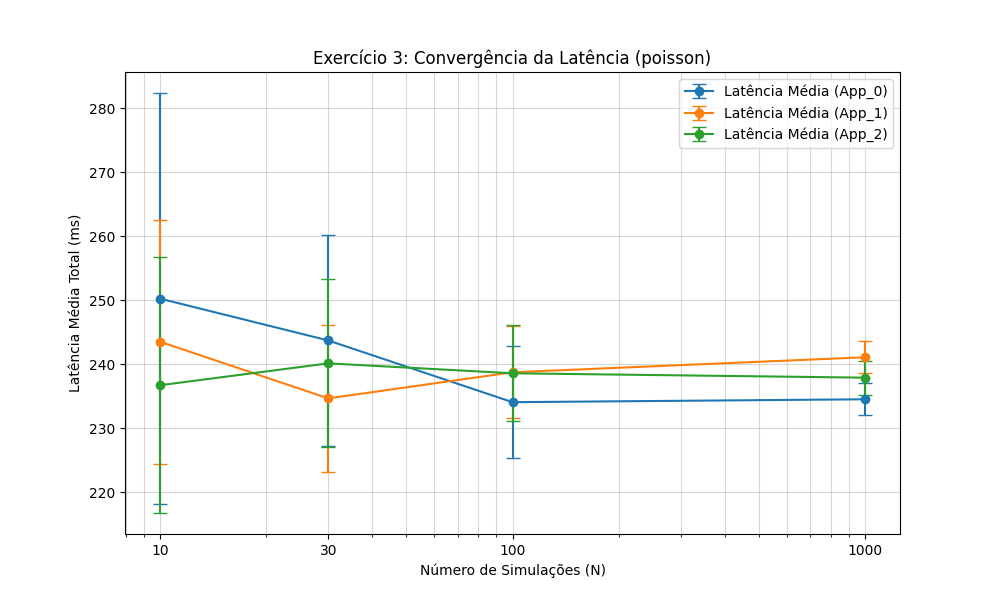
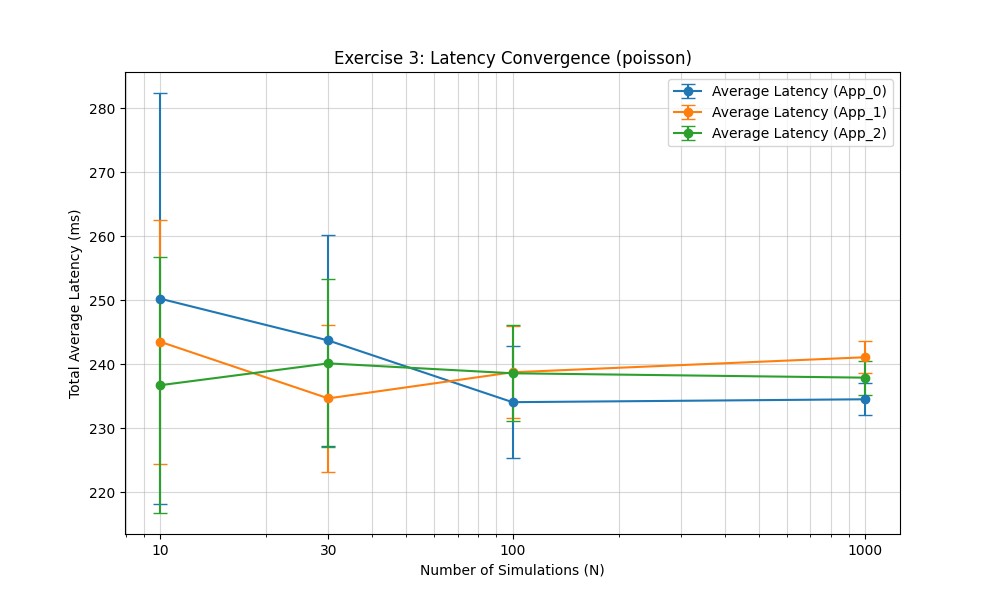
Changed plots and script for ex3

Changed region(s): [[0.31, 0.09, 0.899, 0.27], [0.062, 0.36, 0.093, 0.66], [0.434, 0.93, 0.62, 0.96]]

diff --git a/exercise2/run_experimentsEx3.py b/exercise2/run_experimentsEx3.py
@@ -2,7 +2,7 @@ import pandas as pd
 import numpy as np
 import matplotlib.pyplot as plt
 import os
-from ex2.ex3 import main
+from ex3 import main
 
 def calculate_stats(data):
     # Calculate the mean and 95% Confidence Interval for the given data array
@@ -16,70 +16,71 @@ def calculate_stats(data):
 # --- Configurations ---
 run_counts = [10, 30, 100, 1000] # Number of simulation runs to aggregate
 sim_time = 1000
-dist_type = "poisson" # Distribution type to analyze (e.g., "poisson", "uniform", "deterministic")
+dist_types = ["uniform", "poisson"] # Distributions to analyze
 results_folder = "ex2/results_ex2_3"
 
 if not os.path.exists(results_folder):
     os.makedirs(results_folder)
 
-final_results = {"App_0": [], "App_1": [], "App_2": []}
+for dist_type in dist_types:
+    final_results = {"App_0": [], "App_1": [], "App_2": []}
 
-for N in run_counts:
-    all_runs_latency = {"App_0": [], "App_1": [], "App_2": []}
-    
-    for i in range(N):
-        # We assume the simulations have already been executed using ex2_3.py
-        # You only need to load the generated datasets!
+    for N in run_counts:
+        all_runs_latency = {"App_0": [], "App_1": [], "App_2": []}
         
-        # YAFS automatically appends '.csv' to the output name defined in the Sim class
-        file_path = f"{results_folder}/sim_trace_{dist_type}_run_{i}.csv"
-        
-        if not os.path.exists(file_path):
-            print(f"File {file_path} not found. Ensure ex2_3.py has been run properly.")
-            continue
+        for i in range(N):
+            # We assume the simulations have already been executed using ex2_3.py
+            # You only need to load the generated datasets!
             
-        df = pd.read_csv(file_path)
-        
-        # To calculate the end-to-end (E2E) latency, we need the original emission time 
-        # at the Source (Generator), and not the time_emit from the last hop. 
-        # YAFS registers the entire transaction across modules with the same 'id'.
-        
-        # Filter the dataframe to only include the final reception at the sink module
-        df_sink = df[df['type'] == 'SINK_M'].copy()
-        
-        # Get the original time_emit (the lowest time at which each message 'id' appeared in the network)
-        original_emit_times = df.groupby('id')['time_emit'].min()
-        
-        # Map the initial emission time to the sink dataframe and calculate the true E2E latency
-        df_sink['time_emit_orig'] = df_sink['id'].map(original_emit_times)
-        df_sink['latency'] = df_sink['time_reception'] - df_sink['time_emit_orig']
-        # Calculate the mean latency for each individual application in the current simulation run
-        for i in range(3):
+            # YAFS automatically appends '.csv' to the output name defined in the Sim class
+            file_path = f"{results_folder}/sim_trace_{dist_type}_run_{i}.csv"
+            
+            if not os.path.exists(file_path):
+                print(f"File {file_path} not found. Ensure ex2_3.py has been run properly.")
+                continue
+                
+            df = pd.read_csv(file_path)
+            
+            # To calculate the end-to-end (E2E) latency, we need the original emission time 
+            # at the Source (Generator), and not the time_emit from the last hop. 
+            # YAFS registers the entire transaction across modules with the same 'id'.
+            
+            # Filter the dataframe to only include the final reception at the sink module
+            df_sink = df[df['type'] == 'SINK_M'].copy()
+            
+            # Get the original time_emit (the lowest time at which each message 'id' appeared in the network)
+            original_emit_times = df.groupby('id')['time_emit'].min()
+            
+            # Map the initial emission time to the sink dataframe and calculate the true E2E latency
+            df_sink['time_emit_orig'] = df_sink['id'].map(original_emit_times)
+            df_sink['latency'] = df_sink['time_reception'] - df_sink['time_emit_orig']
+            # Calculate the mean latency for each individual application in the current simulation run
+            for app_idx in range(3):
+                app_name = f"App_{app_idx}"
+                app_mean = df_sink[df_sink['app'] == app_name]['latency'].mean()
+                if pd.notna(app_mean):
+                    all_runs_latency[app_name].append(app_mean)
+
+        for app_idx in range(3):
+            # Aggregate the results from all N runs to compute the overall mean and confidence interval
             app_name = f"App_{app_idx}"
-            app_mean = df_sink[df_sink['app'] == app_name]['latency'].mean()
-            if pd.notna(app_mean):
-                all_runs_latency[app_name].append(app_mean)
+            mean_lat, ci = calculate_stats(all_runs_latency[app_name])
+            final_results[app_name].append({"N": N, "mean": mean_lat, "ci": ci})
 
+    # --- Generate Plot ---
+    plt.figure(figsize=(10, 6))
     for app_idx in range(3):
-        # Aggregate the results from all N runs to compute the overall mean and confidence interval
         app_name = f"App_{app_idx}"
-        mean_lat, ci = calculate_stats(all_runs_latency[app_name])
-        final_results[app_name].append({"N": N, "mean": mean_lat, "ci": ci})
+        res_df = pd.DataFrame(final_results[app_name])
+        # Plot the mean latency values with error bars representing the 95% confidence interval
+        plt.errorbar(res_df['N'], res_df['mean'], yerr=res_df['ci'], fmt='o-', capsize=5, label=f'Average Latency ({app_name})')
 
-# --- Generate Plot ---
-plt.figure(figsize=(10, 6))
-for app_idx in range(3):
-    app_name = f"App_{app_idx}"
-    res_df = pd.DataFrame(final_results[app_name])
-    # Plot the mean latency values with error bars representing the 95% confidence interval
-    plt.errorbar(res_df['N'], res_df['mean'], yerr=res_df['ci'], fmt='o-', capsize=5, label=f'Average Latency ({app_name})')
-
-plt.xscale('log') # Logarithmic scale on X axis to better visualize the convergence rate
-plt.xticks(run_counts, [str(val) for val in run_counts])
-plt.xlabel("Number of Simulations (N)")
-plt.ylabel("Total Average Latency (ms)")
-plt.title(f"Exercício 3: Convergência da Latência ({dist_type})")
-plt.legend()
-plt.grid(True, which="both", ls="-", alpha=0.5)
-plt.savefig(f"convergencia_{dist_type}.png")
-plt.show()
+    plt.xscale('log') # Logarithmic scale on X axis to better visualize the convergence rate
+    plt.xticks(run_counts, [str(val) for val in run_counts])
+    plt.xlabel("Number of Simulations (N)")
+    plt.ylabel("Total Average Latency (ms)")
+    plt.title(f"Exercise 3: Latency Convergence ({dist_type})")
+    plt.legend()
+    plt.grid(True, which="both", ls="-", alpha=0.5)
+    plt.savefig(f"convergencia_{dist_type}.png")
+    plt.show()
